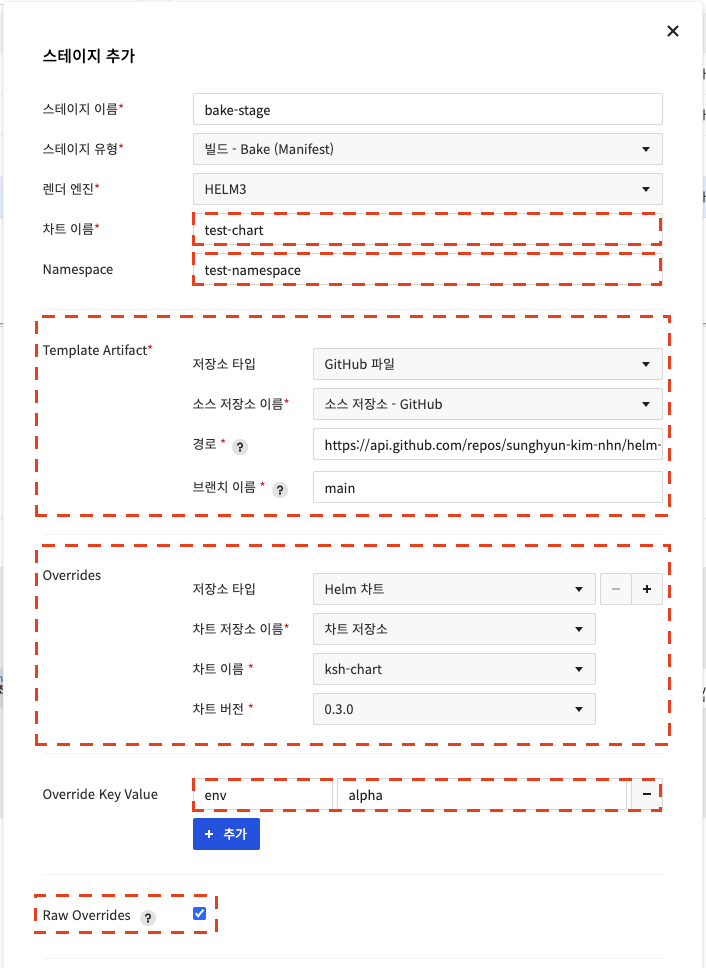
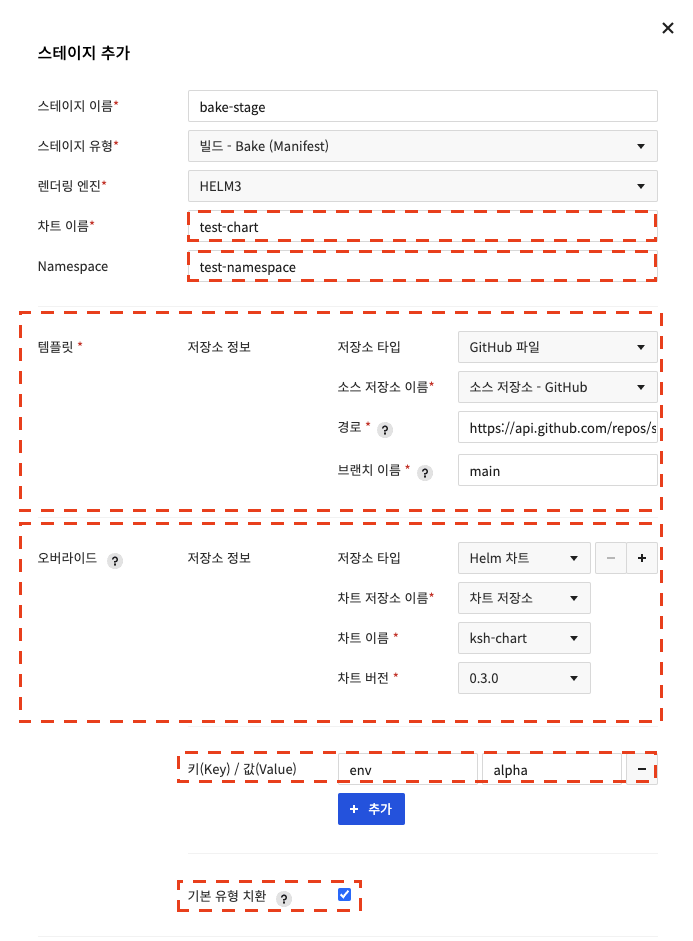
230328 Bake (Manifest) 스테이지 수정된 내용 기준으로 변경

diff --git a/ko/stage-guide.md b/ko/stage-guide.md
@@ -53,10 +53,10 @@ NHN Cloud에서 제공하는 빌드 도구를 사용할 수 있습니다.
 ![stage-guide-13](http://static.toastoven.net/prod_pipeline/2023-02-28/console-guide-02.png)
 
 #### 빌드 - Bake (Manifest)
-사용자가 직접 구성한 Helm package file 또는 Chart Repository를 이용하여 빌드할 수 있습니다. 
+사용자가 직접 구성한 Helm package file 또는 [차트 저장소](/Dev%20Tools/Pipeline/ko/console-guide/#_1)를 이용하여 빌드할 수 있습니다. 
 - 차트 이름은 Helm 엔진으로 구성한 결과물의 이름을 설정합니다.
-- Namespace는 Helm 엔진으로 구성한 결과물의 namespace를 설정합니다.
-- Template Artifact
+- Namespace는 Helm 엔진으로 구성한 결과물의 Namespace를 설정합니다.
+- 템플릿
   - 저장소 타입은 **환경 설정**의 [소스 저장소 설정](/Dev%20Tools/Pipeline/ko/console-guide/#_1) 혹은 [차트 저장소 설정](/Dev%20Tools/Pipeline/ko/console-guide/#_1)에서 추가한 저장소를 선택할 수 있습니다.
   - 저장소 타입을 **GitHub 파일** 혹은 **GitLab 파일**으로 지정한 경우
     - 경로는 Helm package file의 경로를 입력해야합니다.
@@ -65,13 +65,14 @@ NHN Cloud에서 제공하는 빌드 도구를 사용할 수 있습니다.
     - 차트 저장소 이름은 [차트 저장소 설정](/Dev%20Tools/Pipeline/ko/console-guide/#_1)에서 설정한 저장소 중 하나를 선택할 수 있습니다.
     - 차트 이름은 차트 저장소의 구성에서 사용할 수 있는 차트 이름을 선택할 수 있습니다.
     - 차트 버전은 차트 저장소의 구성에서 사용할 수 있는 차트 버전을 선택할 수 있습니다.
-- Overrides
-  - Template Artifact와 동일한 방식으로 선택할 수 있습니다.
-  - Template Artifact를 기본으로 하여 Overrides에서 지정한 Artifact로 치환하여 빌드 결과물을 생성합니다.
-- Override Key Value
-  - key, value로 이루어진 값을 입력하여 특정 값을 치환하여 빌드 결과물을 생성합니다.
-- Raw Overrides
-  - 해당 옵션을 체크하면 Override 값을 주입할 때, --set-string 대신 --set을 사용합니다. --set을 사용하여 주입된 값은 Helm에 의해 원시 자료형으로 변환됩니다.
+- 오버라이드
+  - 저장소 정보
+    - 템플릿과 동일한 방식으로 선택할 수 있습니다.
+    - 템플릿을 기본으로 하여 오버라이드에서 지정한 내용으로 치환하여 빌드 결과물을 생성합니다.
+  - 키(Key) / 값(Value)
+    - key, value로 이루어진 값을 입력하여 특정 값을 치환하여 빌드 결과물을 생성합니다.
+  - 기본 유형 치환
+    - 해당 옵션을 체크하면 오버라이드 값을 주입할 때, --set-string 대신 --set을 사용합니다. --set을 사용하여 주입된 값은 Helm에 의해 기본 자료형으로 변환됩니다.
 - 아티팩트
   - **아티팩트**의 **시작 조건**과 **종료 조건**을 설정할 수 있습니다. **시작 조건**을 설정하여 스테이지 시작 여부를 결정할 수 있습니다. **종료 조건**을 설정하여 스테이지의 생성물을 아티팩트로 설정할 수 있습니다.
 
